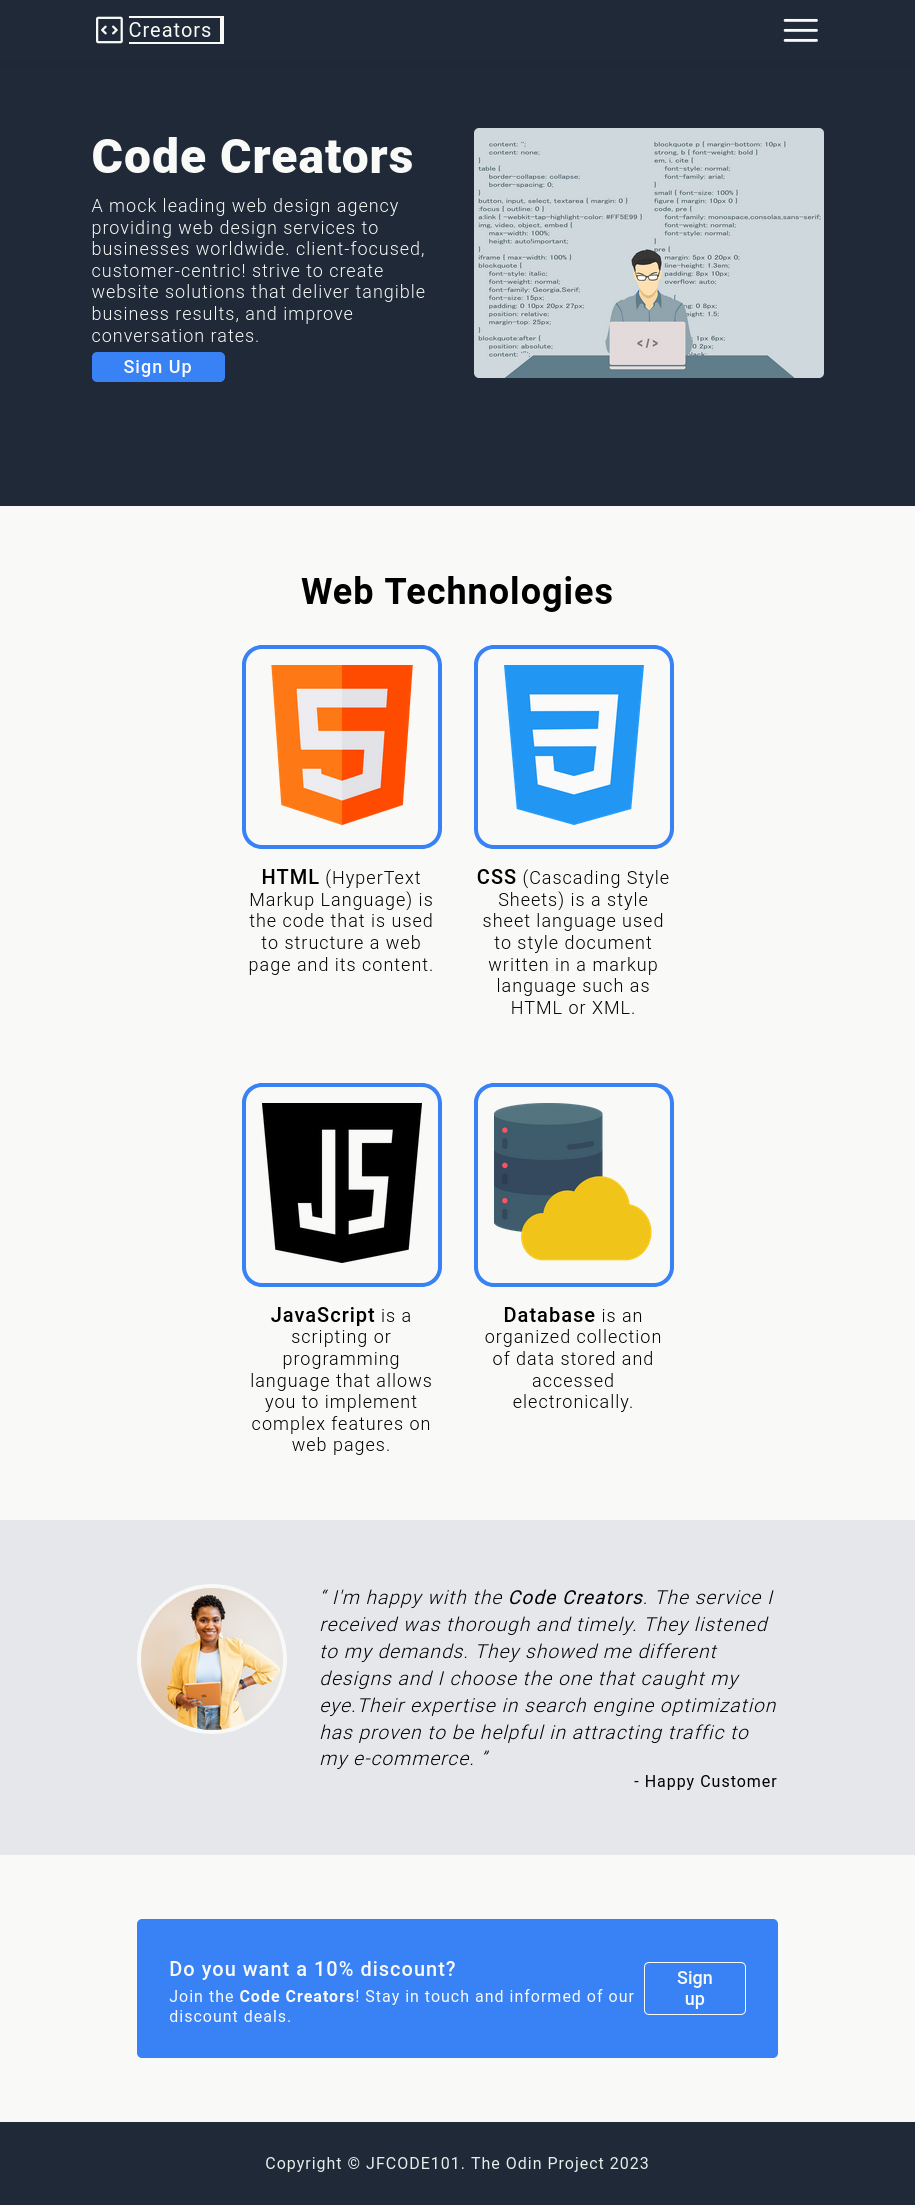
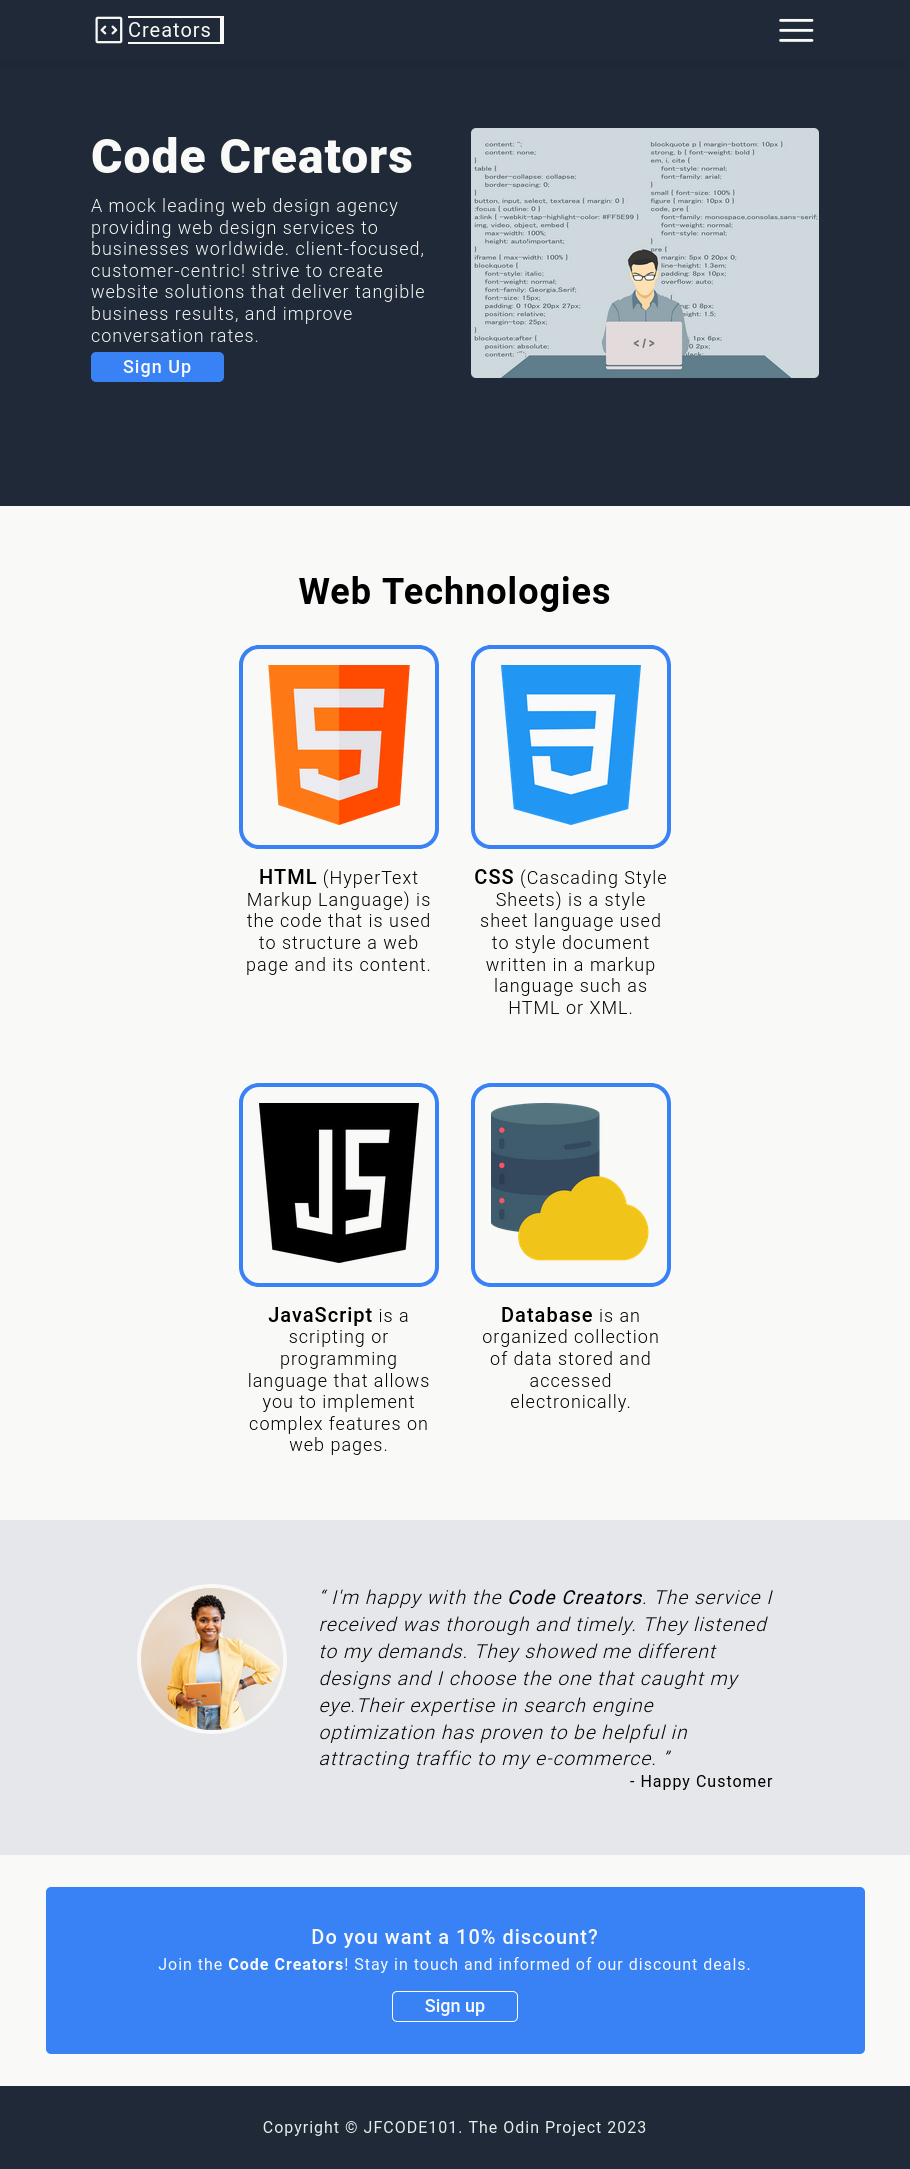
Continuous Improvement - Adjust some styling - Add new screenshot - Fix grammar mistake previously  found on README.md

diff --git a/style/s.css b/style/s.css
@@ -366,6 +366,24 @@ li {
     text-underline-offset: .5rem;
 }
 
+@media (max-width: 1240px) {
+    .signup-content {
+        width: 90%;
+        padding: 2rem;
+        flex-direction: column;
+        gap: 1rem;
+    }
+
+    .signup-msg h3,
+    .signup-area p {
+        text-align: center;
+    }
+
+    .signup-area {
+        padding: 2rem 0;
+    }
+}
+
 
 @media (max-width: 920px) {
     .check-btn .material-symbols-rounded {
@@ -390,6 +408,17 @@ li {
 
     #check:checked~.nav-list {
         left: 0;
+    }
+
+}
+
+@media (max-width: 780px) {
+    .hero {
+        width: 90%;
+    }
+
+    .content-btn{
+        margin-top: 1rem;
     }
 }
 
@@ -478,11 +507,22 @@ li {
         text-align: end;
     }
 
+    .signup-area {
+        padding: 1rem;
+    }
+
     .signup-content {
         width: 100%;
         padding: 1rem;
-        border-radius: 0;
         gap: 1rem;
         flex-direction: column;
+    }
+
+    .footer p {
+        line-height: 1.6;
+    }
+
+    .footer p span {
+        display: block;
     }
 }

diff --git a/index.html b/index.html
@@ -143,9 +143,10 @@
             </div>
         </section>
         <footer class="footer">
-            <p>Copyright &#169; <a href="https://github.com/jfcode101" target="_blank">JFCODE101</a>. <a
-                    href="https://www.theodinproject.com/" target="_blank">The
+            <p>Copyright &#169; <a href="https://github.com/jfcode101" target="_blank">JFCODE101</a>. <span>
+                <a href="https://www.theodinproject.com/" target="_blank">The
                     Odin Project</a> 2023
+            </span>
             </p>
         </footer>
     </div>

diff --git a/README.md b/README.md
@@ -23,10 +23,8 @@ Overall this was a simple project, the only challenge was to look at the design 
 ### Screenshots
 
 - Desktop screenshot: ![](./images/desktop.png)
-
 - Tablet screenshot: ![](./images/tablet.png)
-
--Mobile screenshot: ![](./images/mobile.png)
+- Mobile screenshot: ![](./images/mobile.png)
 
 ### Links
 
@@ -43,11 +41,11 @@ Overall this was a simple project, the only challenge was to look at the design 
 #### Icons
 
 - HTML: [Flaticon - created by Freepik](https://www.flaticon.com/free-icons/html)
-- CSS:[Flaticon - created by Pixel perfect](https://www.flaticon.com/free-icons/css)
-- JS: [Flaticon - created by edt.im](https://www.flaticon.com/free-icons/javascript)
+- CSS: [Flaticon - created by Pixel perfect](https://www.flaticon.com/free-icons/css)
+- JavaScript: [Flaticon - created by edt.im](https://www.flaticon.com/free-icons/javascript)
 - Database: [Flaticon - created by Smashicons](https://www.flaticon.com/free-icons/database)
 
 
 ### Author
 
-[JFcode101](https://github.com/jfcode101/)
+- Github: [JFcode101](https://github.com/jfcode101/)
